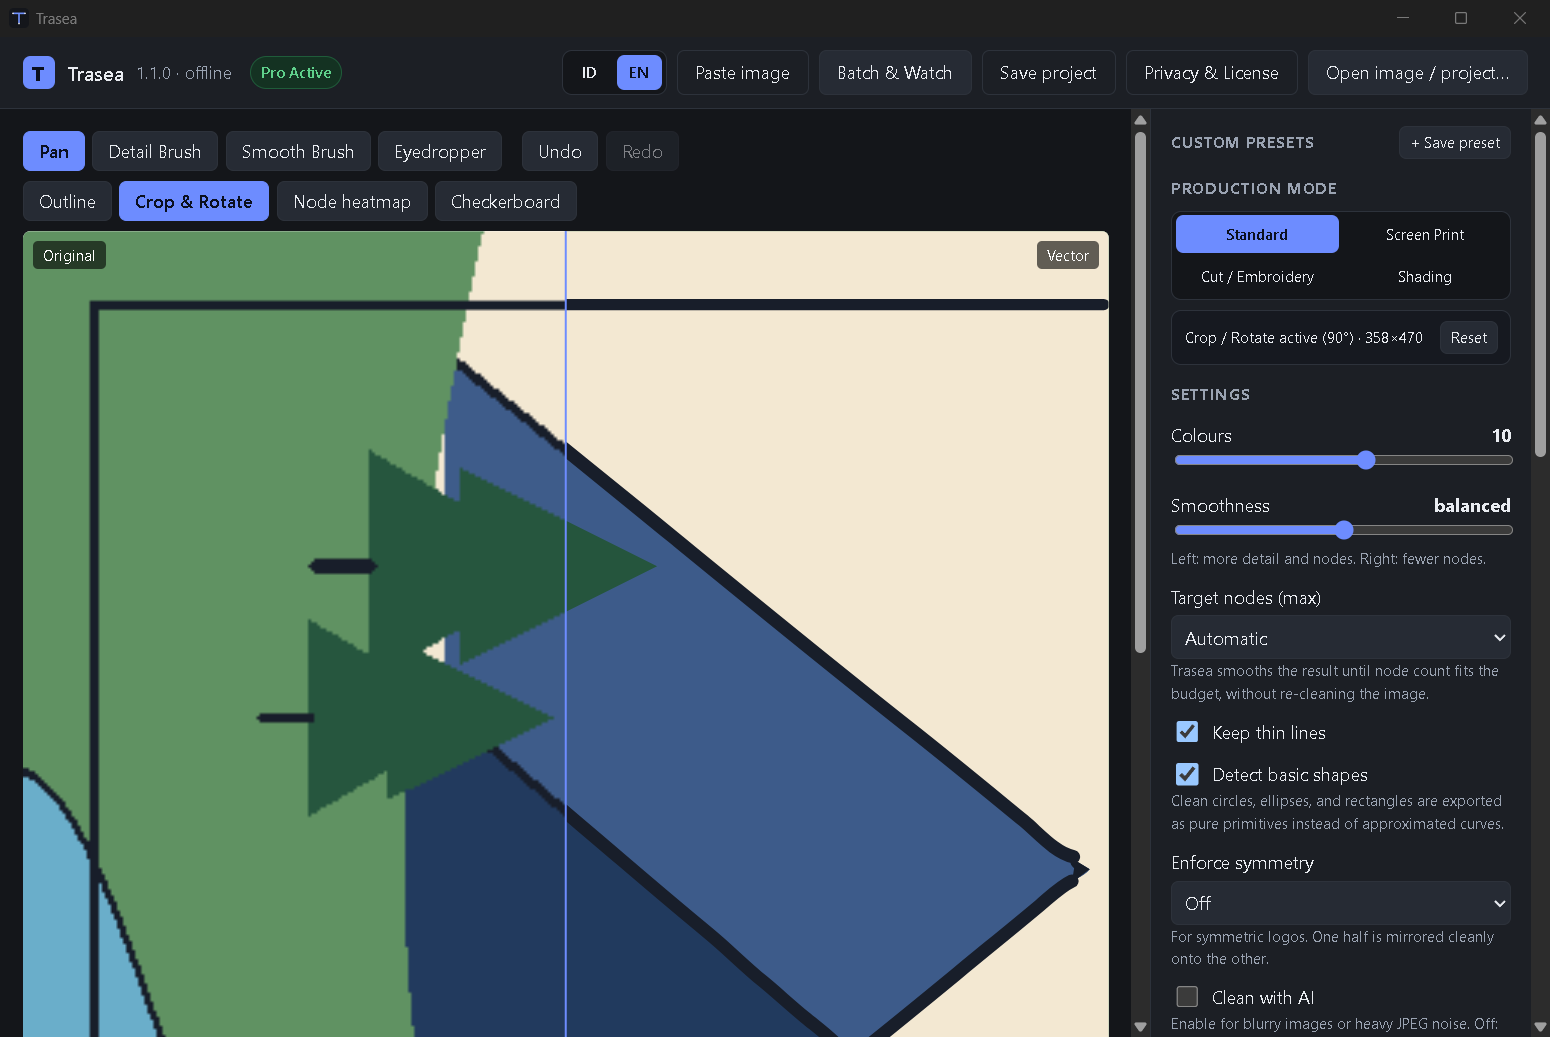
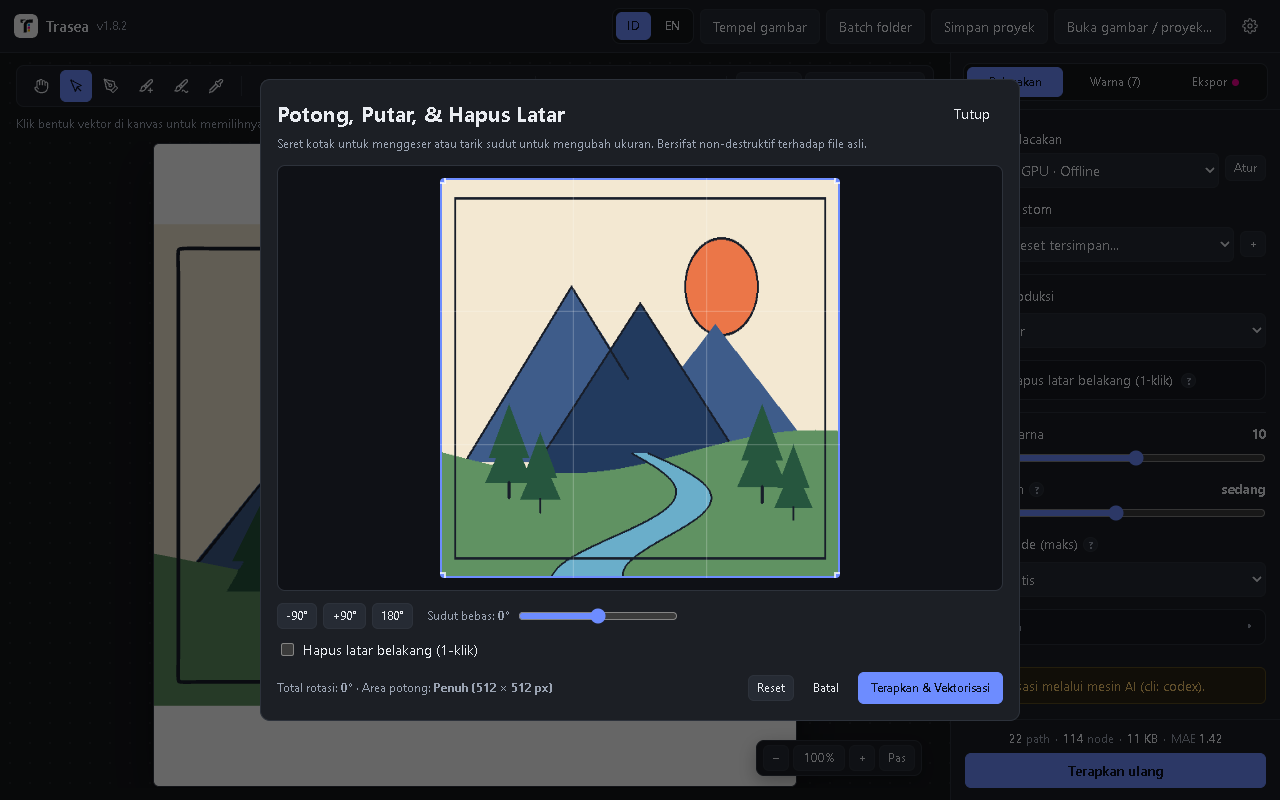
docs(v1.8.2): refresh remaining README screenshots and polish EN/ID copy

diff --git a/README.id.md b/README.id.md
@@ -77,7 +77,7 @@ Format keluaran yang didukung:
 
 - **Artboard Studio & Bilah Zoom Mengambang.** Menambahkan latar *dot-grid* 20 px halus serta bayangan elevasi *artboard* di tema gelap maupun terang, dilengkapi bilah zoom mengambang di kanan bawah kanvas (`25%`–`400%`, `−` / reset `%` / `+` / `Pas`).
 - **Layar Selamat Datang & Terakhir Dibuka.** Dropzone kini terpusat dengan logo Trasea v2, kontras teks bantu lebih jelas, *format pills* (`PNG`, `JPG`, `WebP`, `SVG`, `.trasea`), serta daftar **Terakhir dibuka** lokal (hingga 4 berkas gambar atau proyek `.trasea`).
-- **Konsistensi Copywriting & Inspektor Rapi.** Menyeragamkan label aksi header dan layar awal (`Tempel gambar`, `Batch folder`, `Preset kustom`), menghilangkan sapaan formal *"Anda"*, menyeragamkan tombol berbingkai di header, merapatkan seluruh ikon `?` tepat di sebelah labelnya, menambah pemisah grup inspektor, dan mengaktifkan `tabular-nums` pada angka slider.
+- **Konsistensi Copywriting & Inspektor Rapi.** Menyeragamkan label aksi header dan layar awal (`Tempel gambar`, `Batch folder`, `Preset kustom`), menghilangkan sapaan formal di antarmuka, menyeragamkan tombol berbingkai di header, merapatkan seluruh ikon `?` tepat di sebelah labelnya, menambah pemisah grup inspektor, dan mengaktifkan `tabular-nums` pada angka slider.
 
 ### Baru di 1.7.3
 
@@ -207,7 +207,7 @@ Baca [docs/RELEASE-SIGNING.md](docs/RELEASE-SIGNING.md) sebelum distribusi komer
 
 ## Pemrosesan Lokal, Privasi, & Kredit
 
-Seluruh pembersihan gambar, vektorisasi, dan ekspor berjalan langsung di komputer Anda tanpa mengunggah desain ke cloud, dan Trasea tetap bekerja tanpa koneksi internet. Crate inti `trasea-core` tidak menautkan crate HTTP/jaringan maupun crate GPL/AGPL apa pun (terverifikasi otomatis oleh `V7`, `N-01`, `F-09`, dan `G12-10`), serta WebView menerapkan CSP ketat ke IPC lokal. Lihat [docs/LICENSE-AUDIT-1.4.0.md](docs/LICENSE-AUDIT-1.4.0.md) dan [THIRD_PARTY_LICENSES.md](THIRD_PARTY_LICENSES.md).
+Seluruh pembersihan gambar, vektorisasi, dan ekspor berjalan langsung di komputer tanpa mengunggah desain ke cloud, dan Trasea tetap bekerja tanpa koneksi internet. Crate inti `trasea-core` tidak menautkan crate HTTP/jaringan maupun crate GPL/AGPL apa pun (terverifikasi otomatis oleh `V7`, `N-01`, `F-09`, dan `G12-10`), serta WebView menerapkan CSP ketat ke IPC lokal. Lihat [docs/LICENSE-AUDIT-1.4.0.md](docs/LICENSE-AUDIT-1.4.0.md) dan [THIRD_PARTY_LICENSES.md](THIRD_PARTY_LICENSES.md).
 
 ## Lisensi
 

diff --git a/README.md b/README.md
@@ -68,7 +68,7 @@ Supported outputs:
 ### New in 1.8.0 ("Studio Production, Brand Kit & Visual Audit")
 
 - **Live Product Mockup Preview.** Preview active Offline or AI vectors directly on 5 studio presets (**T-Shirt**, **Die-Cut Sticker**, **Tote Bag**, **Business Card**, and **App Icon**) with **Light / Dark** surfaces, live scale control (`30%–100%`), and 1-click high-resolution **Save PNG** (`1600×1200 px`).
-- **Smart Recolor (0 ms) & 1-Click Brand Kit ZIP.** Instantly switch non-destructive color variants (**Original**, **Black**, **White**, **Duotone** with custom pickers) while keeping `CutContour` (`#EC008C`) and `Registrasi` intact, isolate any single color plate via **Solo** (`Alt+Click` eye icon), and export a complete 5-file **Brand Kit (.zip)** (`color.svg`, `black.svg`, `white.svg`, `cutcontour.pdf`, `palette.ase`).
+- **Smart Recolor (0 ms) & 1-Click Brand Kit ZIP.** Instantly switch non-destructive color variants (**Original**, **Black**, **White**, **Duotone** with custom pickers) while keeping `CutContour` (`#EC008C`) and `Registration` intact, isolate any single color plate via **Solo** (`Alt+Click` eye icon), and export a complete 5-file **Brand Kit (.zip)** (`color.svg`, `black.svg`, `white.svg`, `cutcontour.pdf`, `palette.ase`).
 - **Side-by-Side Engine Comparison (Offline vs AI).** Compare Offline GPU and local AI CLI vector results side-by-side with live `paths · nodes · KB` metrics and switch the active vector source in 0 ms without re-tracing.
 - **Pre-Flight Vector Audit & Auto Fix.** Automatically detects thin strokes (`< 0.5 pt`), high node counts (`> 3,000`), near-duplicate colors (`ΔE < 10`), and micro-path dust (`< 4 px²`) right inside the Export tab with 1-click **Auto fix** (`audit_doc` / `auto_fix_doc`).
 - **Universal Copy SVG (`Ctrl+Shift+C`).** Works seamlessly across both Offline and AI Import results with active Smart Recolor applied.
